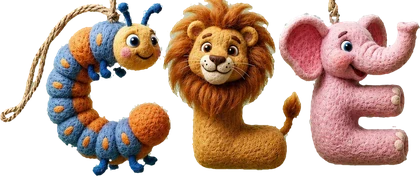
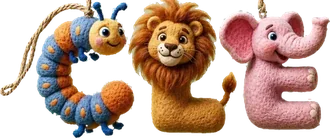
Speed up first paint and fix phone layout on the legal pages

diff --git a/src/components/media/press.ts b/src/components/media/press.ts
@@ -47,7 +47,9 @@ export interface PressFile {
   /** The film only. */
   duration?: string;
   /** What the thumbnail shows. `webp` is optional: the vector marks are their
-   *  own thumbnail. */
+   *  own thumbnail. The WebPs are 360px copies in /brand/thumbs, since a tile
+   *  is about 115px wide on a phone: the full files were 1.1MB for the grid.
+   *  Width and height stay the original's, for the aspect ratio. */
   thumb: { src: string; width: number; height: number; webp?: string };
   alt: string;
 }
@@ -75,7 +77,7 @@ const MARKS: PressFile[] = [
     width: 1182,
     height: 1183,
     bytes: 1724459,
-    thumb: { webp: "/brand/cle-mark.webp", src: "/brand/cle-mark.png", width: 591, height: 591 },
+    thumb: { webp: "/brand/thumbs/cle-mark.webp", src: "/brand/cle-mark.png", width: 591, height: 591 },
     alt: "The CLÉ Family Media logo, the letters formed from needle-felted animals",
   },
   {
@@ -111,7 +113,7 @@ const MARKS: PressFile[] = [
     width: 1600,
     height: 900,
     bytes: 259444,
-    thumb: { webp: "/brand/show-logo.webp", src: "/brand/show-logo.jpg", width: 1000, height: 563 },
+    thumb: { webp: "/brand/thumbs/show-logo.webp", src: "/brand/show-logo.jpg", width: 1000, height: 563 },
     alt: "The Pawsitive Pugs & Pals logo, needle-felted lettering with paw prints and bones",
   },
 ];
@@ -131,7 +133,7 @@ const SLATES: PressFile[] = EPISODES.map((e, i) => {
     width: 1280,
     height: 720,
     bytes: SLATE_BYTES[i],
-    thumb: { webp: `/brand/slate-ep${n}.webp`, src: `/brand/slate-ep${n}.jpg`, width: 640, height: 360 },
+    thumb: { webp: `/brand/thumbs/slate-ep${n}.webp`, src: `/brand/slate-ep${n}.jpg`, width: 640, height: 360 },
     alt: `Episode ${e.n}, ${e.title}, its felted title slate, with Finn and Fia looking over it`,
   };
 });
@@ -148,7 +150,7 @@ const FRAMES: PressFile[] = [
     width: 3200,
     height: 1600,
     bytes: 457659,
-    thumb: { webp: "/brand/show-meadow.webp", src: "/brand/show-meadow.jpg", width: 1600, height: 800 },
+    thumb: { webp: "/brand/thumbs/show-meadow.webp", src: "/brand/show-meadow.jpg", width: 1600, height: 800 },
     alt: "Finn and Fia looking over a leaf in a wildflower meadow at sunrise, with a ladybird on it, a scene from The Pawsitive Pugs and Pals",
   },
   {
@@ -160,7 +162,7 @@ const FRAMES: PressFile[] = [
     width: 3200,
     height: 1600,
     bytes: 517902,
-    thumb: { webp: "/brand/show-snail.webp", src: "/brand/show-snail.jpg", width: 1600, height: 800 },
+    thumb: { webp: "/brand/thumbs/show-snail.webp", src: "/brand/show-snail.jpg", width: 1600, height: 800 },
     alt: "A snail crossing a dewy garden path in low morning sun, a scene from The Pawsitive Pugs and Pals",
   },
   {
@@ -172,7 +174,7 @@ const FRAMES: PressFile[] = [
     width: 2400,
     height: 1600,
     bytes: 446512,
-    thumb: { webp: "/brand/story-garden.webp", src: "/brand/story-garden.jpg", width: 1200, height: 800 },
+    thumb: { webp: "/brand/thumbs/story-garden.webp", src: "/brand/story-garden.jpg", width: 1200, height: 800 },
     alt: "The garden in The Pawsitive Pugs and Pals, with a rope swing hanging from an old tree",
   },
 ];
@@ -190,7 +192,7 @@ const FILM: PressFile[] = [
     height: 1424,
     bytes: 42422615,
     duration: "1:04",
-    thumb: { webp: "/video/mission-poster.webp", src: "/video/mission-poster.jpg", width: 1920, height: 1068 },
+    thumb: { webp: "/brand/thumbs/mission-poster.webp", src: "/video/mission-poster.jpg", width: 1920, height: 1068 },
     alt: "The opening frame of the CLÉ Family Media mission film",
   },
 ];

diff --git a/vite.config.ts b/vite.config.ts
@@ -1,10 +1,66 @@
 import { fileURLToPath, URL } from "node:url";
-import { defineConfig } from "vite";
+import { type Plugin, defineConfig } from "vite";
+import type { OutputChunk } from "rollup";
 import react from "@vitejs/plugin-react";
 import tailwindcss from "@tailwindcss/vite";
 
+/* Every route but home is a lazy chunk, so a visitor landing on /contact used
+   to wait for the main bundle to download and run before the browser even
+   learned Contact's chunk existed: two round trips in series before the first
+   paint of the page they asked for. This writes a tiny map of route to chunk
+   files into the HTML, and an inline script fetches the landing route's chunk
+   alongside the main bundle instead of after it.
+
+   ponytail: the route-to-page list repeats App.tsx's routes by hand. A route
+   missing here still works, it just loads the old, slower way. */
+const ROUTE_PAGES: Record<string, string> = {
+  story: "Story", team: "Team", "ethical-ai": "EthicalAi", "case-study": "CaseStudy",
+  journal: "Journal", "journal/*": "JournalPost", app: "AppPage", media: "Media",
+  shop: "Shop", "shop/*": "ShopProduct", contact: "Contact", "download/*": "Download",
+  privacy: "Legal", terms: "Legal", cookies: "Legal",
+};
+
+function routePreload(): Plugin {
+  return {
+    name: "route-preload",
+    apply: "build",
+    transformIndexHtml: {
+      order: "post",
+      handler(html, ctx) {
+        const bundle = ctx.bundle;
+        if (!bundle) return html;
+        const files = (page: string) => {
+          const entry = Object.values(bundle).find(
+            (c): c is OutputChunk => c.type === "chunk" && c.isDynamicEntry && !!c.facadeModuleId?.endsWith(`/src/pages/${page}.tsx`),
+          );
+          if (!entry) return null;
+          const out = new Set<string>();
+          const walk = (c: OutputChunk) => {
+            if (out.has(c.fileName)) return;
+            out.add(c.fileName);
+            c.viteMetadata?.importedCss.forEach((f) => out.add(f));
+            c.imports.forEach((f) => {
+              const dep = bundle[f];
+              if (dep?.type === "chunk") walk(dep);
+            });
+          };
+          walk(entry);
+          return [...out];
+        };
+        const map: Record<string, string[]> = {};
+        for (const [route, page] of Object.entries(ROUTE_PAGES)) {
+          const f = files(page);
+          if (f) map[route] = f;
+        }
+        const script = `<script>(function(){var m=${JSON.stringify(map)};var s=location.pathname.split("/").filter(Boolean);var f=m[s[0]+(s.length>1?"/*":"")];if(!f)return;f.forEach(function(h){var l=document.createElement("link");if(/\\.css$/.test(h)){l.rel="stylesheet"}else{l.rel="modulepreload";l.crossOrigin=""}l.href="/"+h;document.head.appendChild(l)})})()</script>`;
+        return html.replace("</title>", `</title>\n    ${script}`);
+      },
+    },
+  };
+}
+
 export default defineConfig({
-  plugins: [react(), tailwindcss()],
+  plugins: [react(), tailwindcss(), routePreload()],
   resolve: {
     alias: {
       "@": fileURLToPath(new URL("./src", import.meta.url)),

diff --git a/src/pages/Legal.tsx b/src/pages/Legal.tsx
@@ -377,8 +377,11 @@ function Document({ doc }: { doc: DocId }) {
 
                   {/* Who the trader is, between its two rules, ruled the same
                       1.5px as the status rows so the cover is one weight of
-                      line end to end. */}
-                  <div className="order-5 mt-7 border-y-[1.5px] border-rule py-5 lg:mt-9">
+                      line end to end. The rules are `lg` only: stacked on a
+                      phone, the status rows above and the contents below
+                      already rule it, and its own pair printed every line
+                      twice. */}
+                  <div className="order-5 border-rule pt-6 lg:mt-9 lg:border-y-[1.5px] lg:py-5">
                     <p className="font-mono text-[14px] uppercase tracking-[0.14em] text-muted">
                       Who you are dealing with
                     </p>
@@ -396,7 +399,7 @@ function Document({ doc }: { doc: DocId }) {
                   "Contents" label at `lg`; on a phone the same pull cancels
                   the grid gap under the contents disclosure, leaving the
                   clause's own padding as the space between the two. ─── */}
-              <div className="mt-8 border-t-[1.5px] border-rule pt-6 sm:mt-12 sm:pt-12">
+              <div className="mt-8 border-rule sm:mt-12 lg:border-t-[1.5px] lg:pt-12">
                 <div className="grid gap-9 lg:grid-cols-[14rem_minmax(0,1fr)] lg:gap-x-16 xl:gap-x-20">
                   <DocContents
                     items={contents}

diff --git a/index.html b/index.html
@@ -4,8 +4,22 @@
     <meta charset="UTF-8" />
     <meta name="viewport" content="width=device-width, initial-scale=1.0" />
     <link rel="icon" href="/favicon.svg" type="image/svg+xml" />
-    <!-- The home splash shows this before anything else; fetched with the HTML so it is there when the splash is. -->
-    <link rel="preload" as="image" href="/brand/mark-splash@2x.webp" fetchpriority="high" />
+    <!-- The CMS and the team read from here on every public page. -->
+    <link rel="preconnect" href="https://yuunvqwigzoqunwexsgt.supabase.co" crossorigin />
+    <!-- Body and display faces. Without these the browser only finds the fonts
+         after the stylesheet and the page's JavaScript have both run. -->
+    <link rel="preload" as="font" type="font/woff2" href="/fonts/hanken-latin.woff2" crossorigin />
+    <link rel="preload" as="font" type="font/woff2" href="/fonts/calistoga-latin.woff2" crossorigin />
+    <!-- The home splash shows this before anything else, so it is fetched with
+         the HTML. Home only: as a static tag it was 184KB at high priority in
+         front of every other page's own first paint. -->
+    <script>
+      if (location.pathname === "/") {
+        var l = document.createElement("link");
+        l.rel = "preload"; l.as = "image"; l.href = "/brand/mark-splash@2x.webp"; l.fetchPriority = "high";
+        document.head.appendChild(l);
+      }
+    </script>
     <title>CLÉ Family Media</title>
   </head>
   <body>

diff --git a/src/components/Figure.tsx b/src/components/Figure.tsx
@@ -25,7 +25,10 @@ interface Props {
  * Renders a real brand image when one has been supplied, and a labelled
  * placeholder when it has not.
  *
- * Serving order is AVIF, then WebP, then the original. Width and height are
+ * Serving order is AVIF, then WebP, then the original. Width descriptors, not
+ * 1x/2x: with density descriptors the browser ignores `sizes` and every phone
+ * took the @2x file, which on a 340px slate is four times the pixels drawn.
+ * The @2x file is always twice the 1x, and the 1x is `width` wide. Width and height are
  * always set so nothing shifts as images load, and everything below the fold
  * is lazy.
  */
@@ -82,18 +85,18 @@ export function Figure({
       {!a.noAvif && (
         <source
           type="image/avif"
-          srcSet={`${a.base}.avif 1x, ${a.base}@2x.avif 2x`}
+          srcSet={`${a.base}.avif ${a.width}w, ${a.base}@2x.avif ${a.width * 2}w`}
           sizes={sizes}
         />
       )}
       <source
         type="image/webp"
-        srcSet={`${a.base}.webp 1x, ${a.base}@2x.webp 2x`}
+        srcSet={`${a.base}.webp ${a.width}w, ${a.base}@2x.webp ${a.width * 2}w`}
         sizes={sizes}
       />
       <img
         src={`${a.base}.${ext}`}
-        srcSet={`${a.base}.${ext} 1x, ${a.base}@2x.${ext} 2x`}
+        srcSet={`${a.base}.${ext} ${a.width}w, ${a.base}@2x.${ext} ${a.width * 2}w`}
         sizes={sizes}
         alt={a.alt}
         width={a.width}

diff --git a/src/components/doc/DocSheet.tsx b/src/components/doc/DocSheet.tsx
@@ -44,7 +44,7 @@ export function DocSheet({
   const row = (
     <>
       {tabs.map((t) => {
-        const cls = `flex min-h-[44px] items-center rounded-t-[7px] border-2 border-b-0 px-4 font-mono text-[14.5px] uppercase tracking-[0.14em] shadow-[inset_0_1px_0_rgba(255,255,255,0.55)] transition-colors ${
+        const cls = `flex min-h-[44px] items-center rounded-t-[7px] border-2 border-b-0 px-2.5 font-mono text-[14.5px] uppercase tracking-[0.06em] sm:px-4 sm:tracking-[0.14em] shadow-[inset_0_1px_0_rgba(255,255,255,0.55)] transition-colors ${
           t.current
             ? "border-raised bg-raised pb-0.5 text-ink"
             : "mt-1 border-sunken bg-sunken text-body hover:text-ink"
@@ -64,11 +64,11 @@ export function DocSheet({
   return (
     <div className={`relative ${box} ${className}`}>
       {linked ? (
-        <nav aria-label={navLabel} className="flex gap-1 pl-5 sm:pl-7">
+        <nav aria-label={navLabel} className="flex gap-1 pl-3 sm:pl-7">
           {row}
         </nav>
       ) : (
-        <div className="flex gap-1 pl-5 sm:pl-7">{row}</div>
+        <div className="flex gap-1 pl-3 sm:pl-7">{row}</div>
       )}
       <div className="card-stock px-5 py-9 sm:px-8 sm:py-11 lg:px-14 lg:py-16">{children}</div>
     </div>
